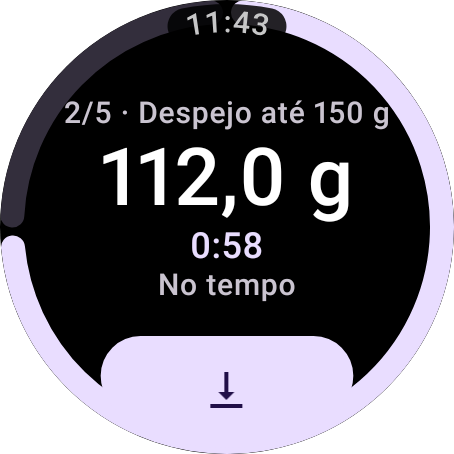
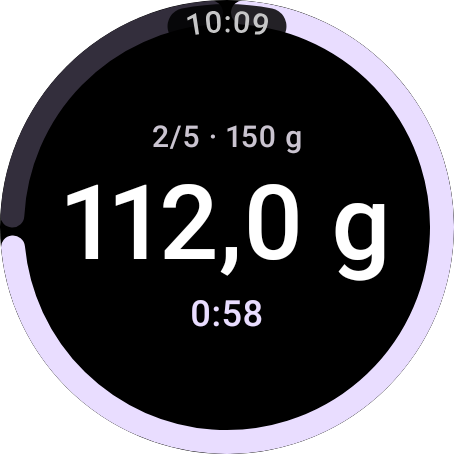
Wear: one thing at a time on the watch screen
Scale mode shows the weight, the timer and tare: a tap on the timer starts
or pauses it, a long press resets it. A guided brew's label is "2/5 · 150 g"
and its pace colors the arc instead of a line of text; tare hides during a
brew. The screenshots use a fixed clock so they only change with the screen.

diff --git a/wear/src/main/java/io/github/mateuxlucax/caparao/wear/WatchScreen.kt b/wear/src/main/java/io/github/mateuxlucax/caparao/wear/WatchScreen.kt
@@ -1,57 +1,79 @@
 package io.github.mateuxlucax.caparao.wear
 
+import androidx.compose.foundation.combinedClickable
 import androidx.compose.foundation.layout.Arrangement
 import androidx.compose.foundation.layout.Box
 import androidx.compose.foundation.layout.Column
 import androidx.compose.foundation.layout.Row
 import androidx.compose.foundation.layout.Spacer
 import androidx.compose.foundation.layout.fillMaxSize
-import androidx.compose.foundation.layout.height
 import androidx.compose.foundation.layout.padding
+import androidx.compose.foundation.layout.size
+import androidx.compose.foundation.layout.width
+import androidx.compose.foundation.shape.CircleShape
 import androidx.compose.runtime.Composable
 import androidx.compose.ui.Alignment
 import androidx.compose.ui.Modifier
+import androidx.compose.ui.draw.clip
+import androidx.compose.ui.graphics.Color
+import androidx.compose.ui.platform.LocalContext
 import androidx.compose.ui.res.painterResource
 import androidx.compose.ui.res.stringResource
+import androidx.compose.ui.semantics.semantics
+import androidx.compose.ui.semantics.stateDescription
 import androidx.compose.ui.text.font.FontWeight
 import androidx.compose.ui.text.style.TextAlign
 import androidx.compose.ui.unit.dp
 import androidx.compose.ui.unit.sp
-import androidx.compose.ui.platform.LocalContext
 import androidx.wear.compose.material3.AppScaffold
 import androidx.wear.compose.material3.CircularProgressIndicator
 import androidx.wear.compose.material3.ColorScheme
 import androidx.wear.compose.material3.EdgeButton
 import androidx.wear.compose.material3.EdgeButtonSize
-import androidx.wear.compose.material3.FilledIconButton
-import androidx.wear.compose.material3.FilledTonalIconButton
 import androidx.wear.compose.material3.Icon
-import androidx.wear.compose.material3.IconButtonDefaults
 import androidx.wear.compose.material3.MaterialTheme
+import androidx.wear.compose.material3.ProgressIndicatorDefaults
 import androidx.wear.compose.material3.ScreenScaffold
-import androidx.wear.compose.material3.dynamicColorScheme
 import androidx.wear.compose.material3.Text
+import androidx.wear.compose.material3.TimeSource
+import androidx.wear.compose.material3.TimeText
+import androidx.wear.compose.material3.TimeTextDefaults
+import androidx.wear.compose.material3.dynamicColorScheme
 import io.github.mateuxlucax.caparao.watch.WatchGuide
 import io.github.mateuxlucax.caparao.watch.WatchSnapshot
 import io.github.mateuxlucax.caparao.watch.WatchState
 import io.github.mateuxlucax.caparao.watch.WatchStepKind
 
 /**
- * Wear Material 3 Expressive (docs/adr/0025-material-3-expressive.md): the system's colors, the time curved on top, the
- * mode or the flow, the weight large, the timer; in Scale mode the timer's start or pause and reset, and tare as the
- * edge button hugging the bottom of the round screen. A pour to a target draws its progress around the edge.
+ * Wear Material 3 Expressive (docs/adr/0025-material-3-expressive.md), one thing at a time: the weight large and the
+ * timer under it. In Scale mode a tap on the timer starts or pauses it, a long press resets it, and tare is the edge
+ * button hugging the bottom of the round screen; a brew hides it. A pour to a target draws its progress around the
+ * edge, colored by the pace.
  */
 @Composable
-fun WatchScreen(snapshot: WatchSnapshot?, onTare: () -> Unit, onTimer: () -> Unit, onReset: () -> Unit) {
+fun WatchScreen(
+    snapshot: WatchSnapshot?,
+    onTare: () -> Unit,
+    onTimer: () -> Unit,
+    onReset: () -> Unit,
+    timeSource: TimeSource = TimeTextDefaults.rememberTimeSource(TimeTextDefaults.timeFormat()),
+) {
     MaterialTheme(colorScheme = dynamicColorScheme(LocalContext.current) ?: ColorScheme()) {
-        AppScaffold {
-            val live = snapshot != null && snapshot.state != WatchState.DISCONNECTED
+        AppScaffold(timeText = { TimeText(timeSource = timeSource) }) {
+            val tare = snapshot != null && snapshot.state != WatchState.DISCONNECTED && snapshot.state != WatchState.BREWING
             ScreenScaffold {
                 Box(Modifier.fillMaxSize(), contentAlignment = Alignment.Center) {
-                    pourProgress(snapshot)?.let { CircularProgressIndicator(progress = { it }, modifier = Modifier.fillMaxSize()) }
+                    pourProgress(snapshot)?.let { progress ->
+                        val pace = snapshot?.guide?.let { paceLabel(it) }
+                        CircularProgressIndicator(
+                            progress = { progress },
+                            modifier = Modifier.fillMaxSize().semantics { if (pace != null) stateDescription = pace },
+                            colors = ProgressIndicatorDefaults.colors(indicatorColor = paceColor(snapshot?.guide?.paceMs)),
+                        )
+                    }
                     // Clear of the edge button when it shows.
                     Box(
-                        Modifier.fillMaxSize().padding(start = 28.dp, end = 28.dp, bottom = if (live) 28.dp else 0.dp),
+                        Modifier.fillMaxSize().padding(start = 28.dp, end = 28.dp, bottom = if (tare) 28.dp else 0.dp),
                         contentAlignment = Alignment.Center,
                     ) {
                         when {
@@ -60,7 +82,7 @@ fun WatchScreen(snapshot: WatchSnapshot?, onTare: () -> Unit, onTimer: () -> Uni
                             else -> Readout(snapshot, onTimer, onReset)
                         }
                     }
-                    if (live) {
+                    if (tare) {
                         EdgeButton(onClick = onTare, modifier = Modifier.align(Alignment.BottomCenter), buttonSize = EdgeButtonSize.Small) {
                             Icon(painterResource(R.drawable.ic_tare), contentDescription = stringResource(R.string.tare))
                         }
@@ -85,37 +107,49 @@ private fun Message(text: String) {
 
 @Composable
 private fun Readout(snapshot: WatchSnapshot, onTimer: () -> Unit, onReset: () -> Unit) {
-    Column(horizontalAlignment = Alignment.CenterHorizontally) {
+    Column(horizontalAlignment = Alignment.CenterHorizontally, verticalArrangement = Arrangement.spacedBy(4.dp)) {
         val label = when (snapshot.state) {
-            WatchState.SCALE -> stringResource(R.string.mode_scale)
+            WatchState.SCALE -> null
             WatchState.READY -> stringResource(R.string.state_ready)
             WatchState.DONE -> stringResource(R.string.state_done)
             else -> snapshot.guide?.let { stepLabel(it) } ?: WatchFormat.flow(snapshot.flowGramsPerSecond)
         }
-        Text(label, style = MaterialTheme.typography.labelMedium, color = MaterialTheme.colorScheme.onSurfaceVariant)
-        Text(WatchFormat.grams(snapshot.weightGrams), fontSize = 40.sp, fontWeight = FontWeight.Medium, maxLines = 1)
-        Text(WatchFormat.time(snapshot.elapsedMs), style = MaterialTheme.typography.titleLarge, color = MaterialTheme.colorScheme.primary)
-        val hint = snapshot.guide?.takeIf { snapshot.state == WatchState.BREWING }?.let { paceLabel(it) }
-        if (hint != null) Text(hint, style = MaterialTheme.typography.labelMedium, color = MaterialTheme.colorScheme.onSurfaceVariant)
-        // Scale mode's timer, the same buttons as the phone's Home; a brew runs its own clock. Pressed, they morph shape.
+        if (label != null) Text(label, style = MaterialTheme.typography.labelMedium, color = MaterialTheme.colorScheme.onSurfaceVariant)
+        Text(WatchFormat.grams(snapshot.weightGrams), fontSize = 52.sp, fontWeight = FontWeight.Medium, maxLines = 1)
+        val time = WatchFormat.time(snapshot.elapsedMs)
+        val timeStyle = MaterialTheme.typography.titleLarge
         if (snapshot.state == WatchState.SCALE) {
-            Spacer(Modifier.height(8.dp))
-            Row(horizontalArrangement = Arrangement.spacedBy(8.dp), verticalAlignment = Alignment.CenterVertically) {
-                FilledIconButton(onClick = onTimer, shapes = IconButtonDefaults.animatedShapes()) {
-                    Icon(
-                        painterResource(if (snapshot.timerRunning) R.drawable.ic_pause else R.drawable.ic_play_arrow),
-                        contentDescription = stringResource(if (snapshot.timerRunning) R.string.timer_pause else R.string.timer_start),
-                    )
-                }
-                FilledTonalIconButton(onClick = onReset, shapes = IconButtonDefaults.animatedShapes()) {
-                    Icon(painterResource(R.drawable.ic_replay), contentDescription = stringResource(R.string.timer_reset))
-                }
+            // Scale mode's timer, the phone Home's play and reset folded into the timer itself; a brew runs its own clock.
+            Row(
+                Modifier.clip(CircleShape).combinedClickable(
+                    onClickLabel = stringResource(if (snapshot.timerRunning) R.string.timer_pause else R.string.timer_start),
+                    onLongClickLabel = stringResource(R.string.timer_reset),
+                    onLongClick = onReset,
+                    onClick = onTimer,
+                ).padding(horizontal = 12.dp, vertical = 4.dp),
+                verticalAlignment = Alignment.CenterVertically,
+            ) {
+                Icon(
+                    painterResource(if (snapshot.timerRunning) R.drawable.ic_pause else R.drawable.ic_play_arrow),
+                    contentDescription = null,
+                    modifier = Modifier.size(20.dp),
+                    tint = MaterialTheme.colorScheme.primary,
+                )
+                Spacer(Modifier.width(4.dp))
+                Text(time, style = timeStyle, color = MaterialTheme.colorScheme.primary)
             }
+        } else {
+            Text(time, style = timeStyle, color = MaterialTheme.colorScheme.primary)
+        }
+        // The pace shows as the arc's color; only the countdown to the next step stays in words.
+        val due = snapshot.guide?.dueInMs?.takeIf { snapshot.state == WatchState.BREWING }
+        if (due != null) {
+            Text(stringResource(R.string.guide_due_in, WatchFormat.seconds(due)), style = MaterialTheme.typography.labelMedium, color = MaterialTheme.colorScheme.onSurfaceVariant)
         }
     }
 }
 
-/** "2/5 · Pour to 150 g", "3/5 · Wait", or "Last pour done" once every step is. */
+/** "2/5 · 150 g" for a step with a target, "3/5 · Wait" without, or "Last pour done" once every step is. */
 @Composable
 private fun stepLabel(guide: WatchGuide): String {
     if (guide.index >= guide.count || guide.kind == null) return stringResource(R.string.guide_all_done)
@@ -126,15 +160,13 @@ private fun stepLabel(guide: WatchGuide): String {
         WatchStepKind.SWIRL -> stringResource(R.string.step_swirl)
         null -> ""
     }
-    val target = guide.targetGrams
-    val step = if (target != null) stringResource(R.string.step_to_target, name, WatchFormat.wholeGrams(target)) else name
+    val step = guide.targetGrams?.let { WatchFormat.wholeGrams(it) } ?: name
     return stringResource(R.string.step_of, guide.index + 1, guide.count, step)
 }
 
-/** The countdown to the next step, or the pour's pace against the recipe; ±5 s counts as on time (ADR 0019). */
+/** The pour's pace against the recipe, in words for TalkBack; ±5 s counts as on time (ADR 0019). */
 @Composable
 private fun paceLabel(guide: WatchGuide): String? {
-    guide.dueInMs?.let { return stringResource(R.string.guide_due_in, WatchFormat.seconds(it)) }
     val pace = guide.paceMs ?: return null
     return when {
         pace < -ON_TIME_MS -> stringResource(R.string.pace_ahead, WatchFormat.seconds(-pace))
@@ -142,5 +174,16 @@ private fun paceLabel(guide: WatchGuide): String? {
         else -> stringResource(R.string.pace_on_time)
     }
 }
+
+/** The arc's color: the theme's primary on time, amber ahead, error behind. */
+@Composable
+private fun paceColor(pace: Long?): Color = when {
+    pace == null -> MaterialTheme.colorScheme.primary
+    pace < -ON_TIME_MS -> AHEAD
+    pace > ON_TIME_MS -> MaterialTheme.colorScheme.error
+    else -> MaterialTheme.colorScheme.primary
+}
+
+private val AHEAD = Color(0xFFFFB300)
 
 private const val ON_TIME_MS = 5_000L

diff --git a/wear/src/test/java/io/github/mateuxlucax/caparao/wear/WatchScreenshotsTest.kt b/wear/src/test/java/io/github/mateuxlucax/caparao/wear/WatchScreenshotsTest.kt
@@ -4,12 +4,14 @@ import androidx.compose.foundation.background
 import androidx.compose.foundation.layout.Box
 import androidx.compose.foundation.layout.fillMaxSize
 import androidx.compose.foundation.shape.CircleShape
+import androidx.compose.runtime.Composable
 import androidx.compose.ui.Modifier
 import androidx.compose.ui.draw.clip
 import androidx.compose.ui.graphics.Color
 import androidx.compose.ui.test.junit4.v2.createComposeRule
 import androidx.compose.ui.test.onRoot
 import androidx.test.ext.junit.runners.AndroidJUnit4
+import androidx.wear.compose.material3.TimeSource
 import com.github.takahirom.roborazzi.captureRoboImage
 import io.github.mateuxlucax.caparao.watch.WatchGuide
 import io.github.mateuxlucax.caparao.watch.WatchSnapshot
@@ -43,7 +45,7 @@ abstract class WatchScreenshotsTest(private val lang: String) {
         // Robolectric draws a square: clip to the round screen the qualifiers describe.
         compose.setContent {
             Box(Modifier.fillMaxSize().background(Color.White).clip(CircleShape)) {
-                WatchScreen(snapshot, onTare = {}, onTimer = {}, onReset = {})
+                WatchScreen(snapshot, onTare = {}, onTimer = {}, onReset = {}, timeSource = FixedTime)
             }
         }
         compose.onRoot().captureRoboImage("../docs/screenshots/watch/$lang/$name.png")
@@ -55,3 +57,8 @@ class WatchScreenshotsEnTest : WatchScreenshotsTest("en")
 
 @Config(qualifiers = "pt-rBR-w227dp-h227dp-round-xhdpi")
 class WatchScreenshotsPtBrTest : WatchScreenshotsTest("pt-BR")
+
+/** A fixed clock, so the images only change when the screen does. */
+private object FixedTime : TimeSource {
+    @Composable override fun currentTime(): String = "10:09"
+}
